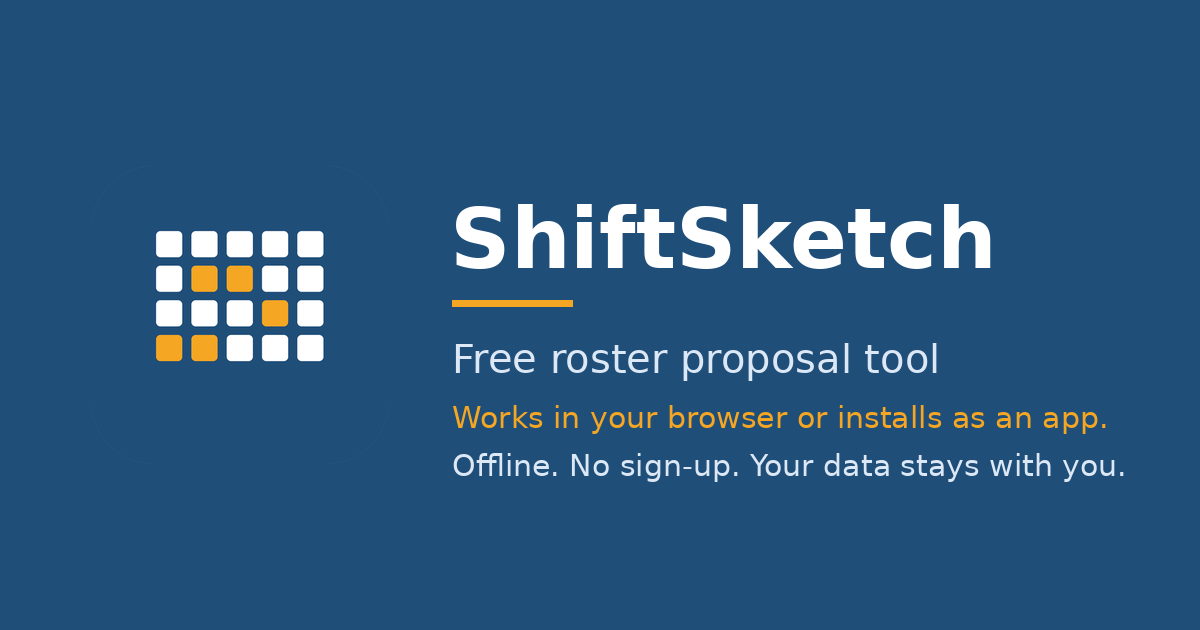
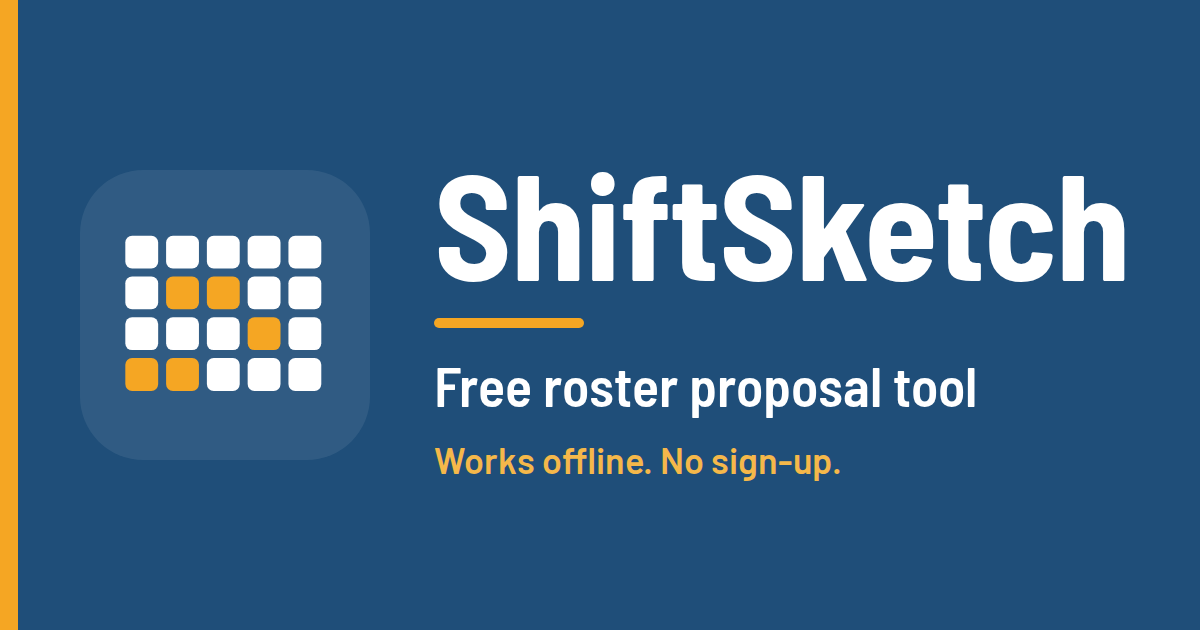
Add files via upload

Changed region(s): [[0.3392, 0.2714, 0.9558, 0.754], [0.0925, 0.3619, 0.2775, 0.6333], [0.0, 0.0, 0.0308, 1.0]]

diff --git a/index.html b/index.html
@@ -247,8 +247,7 @@ td.worstgap{box-shadow:inset 0 0 0 2px var(--flag)!important;position:relative}
   <header class="top">
     <div class="row" style="justify-content:space-between;align-items:start">
       <div>
-        <div class="kicker">Roster proposal · Master roster</div>
-        <h1><img src="icons/icon-192.png" alt="" width="44" height="44" style="vertical-align:middle;margin-right:12px;border-radius:10px">ShiftSketch <span class="ver" title="Build v3.18, 2 Oct 2026">v3.18</span></h1>
+        <h1 style="position:absolute;width:1px;height:1px;overflow:hidden;clip:rect(0 0 0 0);white-space:nowrap">ShiftSketch</h1><img src="icons/header-banner.png" alt="ShiftSketch: free roster proposal tool" width="320" height="75" style="display:block;width:320px;max-width:100%;height:auto;border-radius:12px">
       </div>
       <div class="row" style="gap:8px"><button class="btn" id="presBtn" title="Clean, enlarged view for a projector or meeting-room screen (Esc to leave)">Present</button><button class="btn ghost" id="helpBtn" aria-haspopup="dialog" aria-controls="helpModal">Help</button></div>
     </div>
@@ -514,7 +513,7 @@ td.worstgap{box-shadow:inset 0 0 0 2px var(--flag)!important;position:relative}
   <div class="actions"><button class="btn primary" id="noteSave">Save note</button><button class="btn" id="noteDel">Delete</button><button class="btn" id="noteCancel">Close</button></div>
 </div>
 <div id="printArea" aria-hidden="true"></div>
-<p class="note pres-hide" style="text-align:center;margin:24px 0 8px"><a href="privacy.html">Privacy</a> &middot; ShiftSketch works offline and keeps everything on your device only.</p>
+<p class="note pres-hide" style="text-align:center;margin:24px 0 8px"><a href="privacy.html">Privacy</a> &middot; ShiftSketch v3.18 works offline and keeps everything on your device only.</p>
 
 <script>
 const PRESETS={"Sample roster A": {"FT": [["1", {"Mon": "12:00", "Tue": "12:00", "Sat": "08:30", "Sun": "08:30"}], ["8", {"Mon": "07:30", "Tue": "07:30", "Sat": "08:30", "Sun": "08:30"}], ["15", {"Wed": "07:30", "Thu": "07:30", "Fri": "07:30", "Sat": "07:30"}], ["22", {"Tue": "07:30", "Wed": "12:00", "Thu": "12:00", "Fri": "12:00"}], ["29", {"Mon": "08:30", "Tue": "08:30", "Fri": "08:30", "Sat": "08:30", "Sun": "07:30"}], ["36", {"Thu": "08:30", "Fri": "08:30", "Sat": "08:30"}], ["43", {"Tue": "08:30", "Wed": "08:30", "Thu": "07:30", "Fri": "08:30"}], ["50", {"Tue": "08:30", "Wed": "12:00", "Thu": "12:00", "Fri": "12:00"}], ["57", {"Mon": "07:30", "Tue": "12:00", "Wed": "08:30", "Thu": "08:30"}]], "PT": [["1", {"Wed": "08:30", "Sun": "07:30"}], ["2", {"Mon": "12:00", "Fri": "06:30"}], ["3", {"Thu": "08:30", "Fri": "07:30"}], ["4", {"Wed": "08:30", "Thu": "06:30"}], ["5", {"Mon": "08:30", "Wed": "07:30"}], ["6", {"Thu": "06:30", "Fri": "06:30"}], ["7", {"Fri": "08:30", "Sat": "07:30"}], ["8", {"Mon": "08:30", "Tue": "06:30"}]], "FWA": {"Mon": "08:30", "Tue": "08:30", "Thu": "08:30"}, "CAS": [["1", {"Mon": "06:30", "Tue": "06:30", "Wed": "06:30"}, ""]], "OT": [["1", {"Mon": "06:30", "Tue": "06:30"}, "Vacant Offer"], ["2", {"Mon": "06:30", "Tue": "06:30", "Wed": "06:30"}, "Vacant offer"]], "late": true, "FWAlabel": "FWA 1"}, "Sample roster B": {"FT": [["1", {"Mon": "12:00", "Tue": "12:00", "Sat": "08:30", "Sun": "08:30"}], ["8", {"Mon": "07:30", "Tue": "07:30", "Sat": "08:30", "Sun": "08:30"}], ["15", {"Wed": "07:30", "Thu": "07:30", "Fri": "08:30", "Sat": "07:30"}], ["22", {"Tue": "07:30", "Wed": "12:00", "Thu": "12:00", "Fri": "12:00"}], ["29", {"Mon": "08:30", "Tue": "08:30", "Fri": "08:30", "Sat": "08:30", "Sun": "07:30"}], ["36", {"Thu": "08:30", "Fri": "07:30", "Sat": "08:30"}], ["43", {"Tue": "08:30", "Wed": "08:30", "Thu": "07:30", "Fri": "08:30"}], ["50", {"Tue": "08:30", "Wed": "12:00", "Thu": "12:00", "Fri": "12:00"}], ["57", {"Mon": "07:30", "Tue": "12:00", "Wed": "08:30", "Thu": "08:30"}]], "PT": [["1", {"Wed": "08:30", "Sun": "07:30"}], ["2", {"Mon": "12:00", "Fri": "06:30"}], ["3", {"Thu": "08:30", "Fri": "07:30"}], ["4", {"Wed": "08:30", "Thu": "06:30"}], ["5", {"Mon": "08:30", "Wed": "07:30"}], ["6", {"Thu": "06:30", "Fri": "06:30"}], ["7", {"Fri": "08:30", "Sat": "07:30"}], ["8", {"Mon": "08:30", "Tue": "06:30"}]], "FWA": {"Mon": "08:30", "Tue": "08:30", "Thu": "08:30"}, "CAS": [["1", {"Mon": "06:30", "Tue": "06:30", "Wed": "06:30"}, ""]], "OT": [["1", {"Mon": "06:30", "Tue": "06:30"}, "Vacant Offer"], ["2", {"Mon": "06:30", "Tue": "06:30", "Wed": "06:30"}, "Vacant offer"]], "late": true, "FWAlabel": "FWA 1"}, "Sample current roster": {"FT": [["1", {"Mon": "08:30", "Tue": "08:30", "Wed": "08:30", "Thu": "08:30"}], ["8", {"Tue": "07:30", "Wed": "08:30", "Sat": "08:30", "Sun": "08:30"}], ["15", {"Mon": "08:30", "Tue": "08:30", "Wed": "08:30", "Thu": "08:30"}], ["22", {"Tue": "08:30", "Wed": "08:30", "Thu": "08:30", "Fri": "08:30"}], ["29", {"Tue": "06:30", "Wed": "06:30", "Sat": "07:30", "Sun": "07:30"}], ["36", {"Mon": "08:30", "Tue": "08:30", "Sat": "07:30", "Sun": "07:30"}], ["43", {"Tue": "06:30", "Wed": "06:30", "Thu": "06:30", "Fri": "06:30"}], ["50", {"Tue": "07:30", "Wed": "07:30", "Thu": "07:30", "Fri": "07:30"}], ["57", {"Tue": "08:30", "Wed": "08:30", "Thu": "08:30", "Fri": "08:30"}]], "PT": [["1", {"Sat": "08:30", "Sun": "08:30"}], ["8", {"Mon": "07:30", "Fri": "08:30"}], ["15", {"Mon": "07:30", "Fri": "08:30"}], ["22", {"Wed": "07:30", "Fri": "06:30"}], ["29", {"Mon": "08:30", "Fri": "08:30"}], ["36", {"Mon": "06:30", "Fri": "08:30"}], ["43", {"Mon": "08:30", "Fri": "07:30"}], ["50", {"Mon": "06:30", "Wed": "08:30"}]], "FWA": {"Mon": "08:30", "Tue": "08:30", "Thu": "08:30"}, "late": false}, "Option A": {"FT": [["1", {"Mon": "08:30", "Tue": "08:30", "Wed": "08:30", "Thu": "08:30"}], ["8", {"Tue": "07:30", "Wed": "08:30", "Sat": "08:30", "Sun": "08:30"}], ["15", {"Mon": "08:30", "Tue": "08:30", "Wed": "08:30", "Thu": "08:30"}], ["22", {"Tue": "08:30", "Wed": "08:30", "Thu": "08:30", "Fri": "08:30"}], ["29", {"Tue": "06:30", "Wed": "06:30", "Sat": "07:30", "Sun": "07:30"}], ["36", {"Mon": "08:30", "Tue": "08:30", "Sat": "07:30", "Sun": "07:30"}], ["43", {"Tue": "06:30", "Wed": "06:30", "Thu": "06:30", "Fri": "06:30"}], ["50", {"Tue": "07:30", "Wed": "07:30", "Thu": "07:30", "Fri": "07:30"}], ["57", {"Tue": "08:30", "Wed": "08:30", "Thu": "08:30", "Fri": "08:30"}]], "PT": [["1", {"Fri": "08:30", "Sat": "08:30"}], ["2", {"Mon": "06:30", "Thu": "06:30"}], ["3", {"Wed": "07:30", "Sat": "08:30"}], ["4", {"Mon": "07:30", "Thu": "07:30"}], ["5", {"Wed": "08:30", "Sat": "08:30"}], ["6", {"Mon": "06:30", "Fri": "06:30"}], ["7", {"Fri": "08:30", "Sun": "08:30"}], ["8", {"Mon": "07:30", "Fri": "07:30"}]], "FWA": {"Mon": "08:30", "Tue": "08:30", "Thu": "08:30"}, "late": false}, "Option B": {"FT": [["1", {"Mon": "08:30", "Tue": "08:30", "Wed": "08:30", "Fri": "08:30"}], ["8", {"Tue": "07:30", "Wed": "08:30", "Sat": "08:30", "Sun": "08:30"}], ["15", {"Mon": "08:30", "Tue": "08:30", "Thu": "08:30", "Sun": "08:30"}], ["22", {"Tue": "08:30", "Wed": "08:30", "Thu": "08:30", "Fri": "08:30"}], ["29", {"Mon": "06:30", "Wed": "06:30", "Sat": "07:30", "Sun": "07:30"}], ["36", {"Mon": "08:30", "Tue": "08:30", "Sat": "07:30", "Sun": "07:30"}], ["43", {"Tue": "06:30", "Wed": "06:30", "Thu": "06:30", "Fri": "06:30"}], ["50", {"Mon": "07:30", "Wed": "07:30", "Thu": "07:30", "Fri": "07:30"}], ["57", {"Wed": "08:30", "Thu": "08:30", "Fri": "08:30", "Sat": "08:30"}]], "PT": [["1", {"Wed": "07:30", "Sat": "08:30"}], ["2", {"Tue": "06:30", "Thu": "06:30"}], ["3", {"Mon": "06:30", "Fri": "06:30"}], ["4", {"Fri": "08:30", "Sat": "08:30"}], ["5", {"Tue": "07:30", "Thu": "07:30"}], ["6", {"Mon": "07:30", "Fri": "07:30"}], ["7", {"Fri": "08:30", "Wed": "08:30"}], ["8", {"Tue": "08:30", "Fri": "08:30"}]], "FWA": {"Mon": "08:30", "Tue": "08:30", "Thu": "08:30"}, "late": false}, "Option C1 (late shift)": {"FT": [["1", {"Mon": "12:00", "Tue": "08:30", "Wed": "08:30", "Fri": "08:30"}], ["8", {"Tue": "07:30", "Wed": "08:30", "Sat": "08:30", "Sun": "08:30"}], ["15", {"Mon": "12:00", "Tue": "12:00", "Thu": "08:30", "Sun": "08:30"}], ["22", {"Tue": "12:00", "Wed": "12:00", "Thu": "12:00", "Fri": "12:00"}], ["29", {"Mon": "06:30", "Wed": "06:30", "Sat": "07:30", "Sun": "07:30"}], ["36", {"Mon": "08:30", "Tue": "08:30", "Sat": "07:30", "Sun": "07:30"}], ["43", {"Tue": "06:30", "Wed": "06:30", "Thu": "06:30", "Fri": "06:30"}], ["50", {"Mon": "07:30", "Wed": "07:30", "Thu": "07:30", "Fri": "07:30"}], ["57", {"Wed": "12:00", "Thu": "12:00", "Fri": "12:00", "Sat": "08:30"}]], "PT": [["1", {"Wed": "07:30", "Sat": "08:30"}], ["2", {"Tue": "06:30", "Thu": "06:30"}], ["3", {"Mon": "06:30", "Fri": "06:30"}], ["4", {"Fri": "08:30", "Sat": "08:30"}], ["5", {"Tue": "07:30", "Thu": "07:30"}], ["6", {"Mon": "07:30", "Fri": "07:30"}], ["7", {"Fri": "08:30", "Wed": "08:30"}], ["8", {"Tue": "08:30", "Fri": "08:30"}]], "FWA": {"Mon": "08:30", "Tue": "08:30", "Thu": "08:30"}, "late": true}, "Option C2 (late shift)": {"FT": [["1", {"Mon": "12:00", "Tue": "08:30", "Wed": "08:30", "Fri": "08:30"}], ["8", {"Tue": "07:30", "Wed": "08:30", "Sat": "08:30", "Sun": "08:30"}], ["15", {"Mon": "12:00", "Tue": "12:00", "Thu": "08:30", "Sun": "08:30"}], ["22", {"Tue": "12:00", "Wed": "12:00", "Thu": "12:00", "Fri": "08:30"}], ["29", {"Mon": "06:30", "Wed": "06:30", "Sat": "07:30", "Sun": "07:30"}], ["36", {"Mon": "08:30", "Tue": "08:30", "Sat": "07:30", "Sun": "07:30"}], ["43", {"Tue": "06:30", "Wed": "06:30", "Thu": "06:30", "Fri": "06:30"}], ["50", {"Mon": "07:30", "Wed": "07:30", "Thu": "07:30", "Fri": "07:30"}], ["57", {"Wed": "12:00", "Thu": "12:00", "Fri": "08:30", "Sat": "08:30"}]], "PT": [["1", {"Wed": "07:30", "Sat": "08:30"}], ["2", {"Tue": "06:30", "Thu": "06:30"}], ["3", {"Mon": "06:30", "Fri": "06:30"}], ["4", {"Fri": "12:00", "Sat": "08:30"}], ["5", {"Tue": "07:30", "Thu": "07:30"}], ["6", {"Mon": "07:30", "Fri": "07:30"}], ["7", {"Fri": "08:30", "Wed": "08:30"}], ["8", {"Tue": "08:30", "Fri": "12:00"}]], "FWA": {"Mon": "08:30", "Tue": "08:30", "Thu": "08:30"}, "late": true}};

diff --git a/sw.js b/sw.js
@@ -1,8 +1,8 @@
-const CACHE='shiftsketch-3.18b';
-const CORE=["./", "index.html", "manifest.webmanifest", "privacy.html", "fonts/fonts.css", "fonts/barlow-latin-400-normal.woff2", "fonts/barlow-latin-500-normal.woff2", "fonts/barlow-latin-600-normal.woff2", "fonts/barlow-semi-condensed-latin-500-normal.woff2", "fonts/barlow-semi-condensed-latin-600-normal.woff2", "fonts/barlow-semi-condensed-latin-700-normal.woff2", "icons/icon-192.png", "icons/icon-512.png", "icons/icon-maskable-512.png", "icons/apple-touch-icon.png"];
+const CACHE='shiftsketch-3.18c';
+const CORE=["./", "index.html", "manifest.webmanifest", "privacy.html", "fonts/fonts.css", "fonts/barlow-latin-400-normal.woff2", "fonts/barlow-latin-500-normal.woff2", "fonts/barlow-latin-600-normal.woff2", "fonts/barlow-semi-condensed-latin-500-normal.woff2", "fonts/barlow-semi-condensed-latin-600-normal.woff2", "fonts/barlow-semi-condensed-latin-700-normal.woff2", "icons/icon-192.png", "icons/icon-512.png", "icons/icon-maskable-512.png", "icons/apple-touch-icon.png", "icons/header-banner.png"];
 self.addEventListener('install',e=>{e.waitUntil(caches.open(CACHE).then(c=>c.addAll(CORE)).then(()=>self.skipWaiting()));});
 self.addEventListener('activate',e=>{e.waitUntil(caches.keys().then(ks=>Promise.all(ks.filter(k=>k!==CACHE).map(k=>caches.delete(k)))).then(()=>self.clients.claim()));});
 self.addEventListener('fetch',e=>{
   if(e.request.method!=='GET') return;
-  e.respondWith(caches.match(e.request,{ignoreSearch:true}).then(hit=>hit||fetch(e.request).then(r=>{const cp=r.clone(); caches.open(CACHE).then(c=>c.put(e.request,cp)); return r;}).catch(()=>caches.match('index.html'))));
+  e.respondWith(fetch(e.request).then(r=>{if(r&&r.ok){const cp=r.clone(); caches.open(CACHE).then(c=>c.put(e.request,cp));} return r;}).catch(()=>caches.match(e.request,{ignoreSearch:true}).then(hit=>hit||caches.match('index.html'))));
 });
